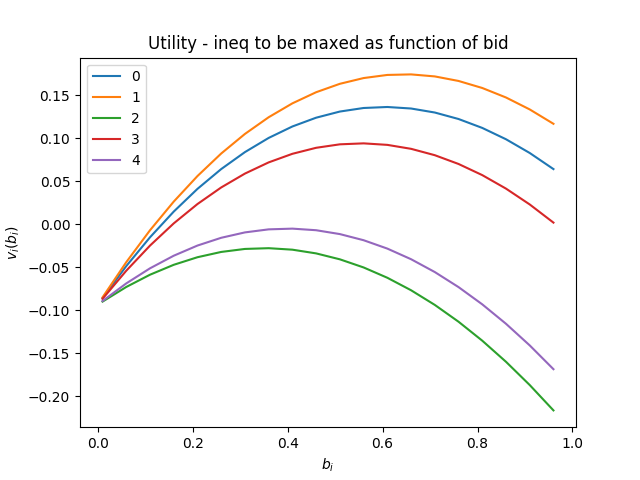
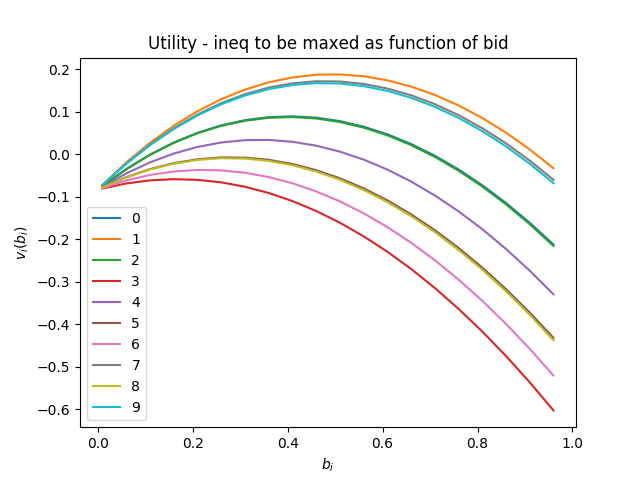
Updating simulation code to be flexible for ascending and descending clock auctions, as well as including vs excluding price in social welfare

diff --git a/utils.py b/utils.py
@@ -46,27 +46,40 @@ def plotutilities(player_dict, price_u, price_v):
 	plt.savefig('figs/util_vp_gini.png');
 
 
-def ploteffectc(player_dict,ineq='gini'):
+def ploteffectc(player_dict, price_include_sw = True, ineq='gini', auct='asc'):
 	final_prices_c = {}
 	sw = {}
 	iq = {}
 
-	cs = np.arange(0., 1.5, 0.075)
+	cs = np.arange(0., 1.2, 0.05)
 	for c in cs:
 		for player in player_dict.values():
 			player.setc(c)
-		bv, fp_v = auction.simultaneous_clock_auction_asc(player_dict, uorv='v', ineq=ineq)
+		if 	auct == 'asc':
+			bv, fp_v = auction.simultaneous_clock_auction_asc(player_dict, uorv='v', ineq=ineq)
+		else:
+			bv, fp_v = auction.simultaneous_clock_auction_desc(player_dict, uorv='v', ineq=ineq)
 		final_prices_c[c] = fp_v
-		sw[c] = socialwelfare(player_dict, bv, fp_v, good_alloc=np.sum(list(bv.values())))[1]
+		if price_include_sw:
+			pi_sw='price_in_sw_'
+			sw[c] = socialwelfare(player_dict, bv, fp_v, good_alloc=np.sum(list(bv.values())))[1]
+		else:
+			pi_sw='no_price_in_sw_'
+			sw[c] = socialwelfare(player_dict, bv, fp_v, good_alloc=np.sum(list(bv.values())))[0]
 		iq[c] = inequality.total_ineq(player_dict, bv, good_or_util='u', iq_metric='gini')
 
-	print(final_prices_c)
-
+	
 	df_c_gini = pd.DataFrame({c: [final_prices_c[c], sw[c], iq[c]] for c in cs} , index=['Final prices', 'Social Welfare', 'Gini coefficient']).T
 	print(df_c_gini)
 	plt.figure()
 	df_c_gini.plot()
 	plt.xlabel('$c$')
 	#plt.ylabel('Final price $p$ / Social Welfare')
-	plt.title('Effect of inequality aversion $c$ on final price, social welfare, and inequality')
-	plt.savefig('figs/c_impact_price_gini.png');
+
+	if price_include_sw:
+		plt.title('Effect of inequality aversion $c$ on final price, \n social welfare (incl price), and inequality')
+		plt.savefig('figs/c_impact_price_gini_' + str(pi_sw) + str(auct) + '.png');
+
+	else:
+		plt.title('Effect of inequality aversion $c$ on final price, \n social welfare (excl price), and inequality')
+		plt.savefig('figs/c_impact_price_gini_' + str(pi_sw) + str(auct) + '.png');		

diff --git a/main.py b/main.py
@@ -14,16 +14,17 @@ def main():
 	player_dict = {}
 
 	#global vars
-	n = 5
+	n = 10
 
 	#initialize players
 	for player in range(n):
 		player_dict[player] = players.Player(np.random.rand(), 0.15) #alpha_i parameterizing the utility and c_i
 
+	print([player.u_i for player in player_dict.values()])
 
 	#run auction
-	bids_u, final_price_u = auction.simultaneous_clock_auction_asc(player_dict, uorv='u')
-	bids_v, final_price_v = auction.simultaneous_clock_auction_asc(player_dict, uorv='v', ineq='gini')
+	bids_u, final_price_u = auction.simultaneous_clock_auction_desc(player_dict, uorv='u')
+	bids_v, final_price_v = auction.simultaneous_clock_auction_desc(player_dict, uorv='v', ineq='gini')
 	#print(bids_u)
 	#print(bids_v)
 	#print(final_price_u)
@@ -31,14 +32,14 @@ def main():
 
 	
 	#calculate inequality at the end
-	ginicoeff_u = inequality.total_ineq(player_dict, bids_u)
-	ginicoeff_v = inequality.total_ineq(player_dict, bids_v)
+	#ginicoeff_u = inequality.total_ineq(player_dict, bids_u)
+	#ginicoeff_v = inequality.total_ineq(player_dict, bids_v)
 	#print(ginicoeff_u)
 	#print(ginicoeff_v)
 
 	#plot utility of all the players in the auction with and without inequality aversion
 	utils.plotutilities(player_dict, final_price_u, final_price_v)
-	utils.ploteffectc(player_dict)
+	utils.ploteffectc(player_dict, price_include_sw=True, auct='asc')
 
 
 if __name__ == "__main__":

diff --git a/players.py b/players.py
@@ -6,6 +6,7 @@ import cvxpy as cp
 class Player:
     def __init__(self, u_i=1., c_i=0.):
          self.u_cp = lambda x : u_i * cp.log((x+1))
+         self.u_i = u_i
          self.u = lambda x : u_i * np.log(x+1)
          self.c = c_i
 
@@ -31,5 +32,4 @@ class Player:
         bid = cp.Variable(1)
         prob = cp.Problem(cp.Maximize(self.u_cp(bid) - self.c * iq(bid) - price * bid), [0 <= bid, bid <= 1])
         prob.solve()
-        #print(iq(bid.value))
         return bid.value

diff --git a/auction.py b/auction.py
@@ -20,7 +20,7 @@ def simultaneous_clock_auction_asc(player_dict,uorv = 'u',ineq='genent',reserve_
 	return bids, price
 
 
-def simultaneous_clock_auction_desc(player_dict,uorv = 'u',ineq='genent',reserve_price = 0.1,step_size = 0.1,max_price=10.):
+def simultaneous_clock_auction_desc(player_dict,uorv = 'u',ineq='genent',reserve_price = 0.1,step_size = 0.05,max_price=1.2):
 	price = max_price
 	overdemand = False
 	while overdemand == False and price >= reserve_price:
